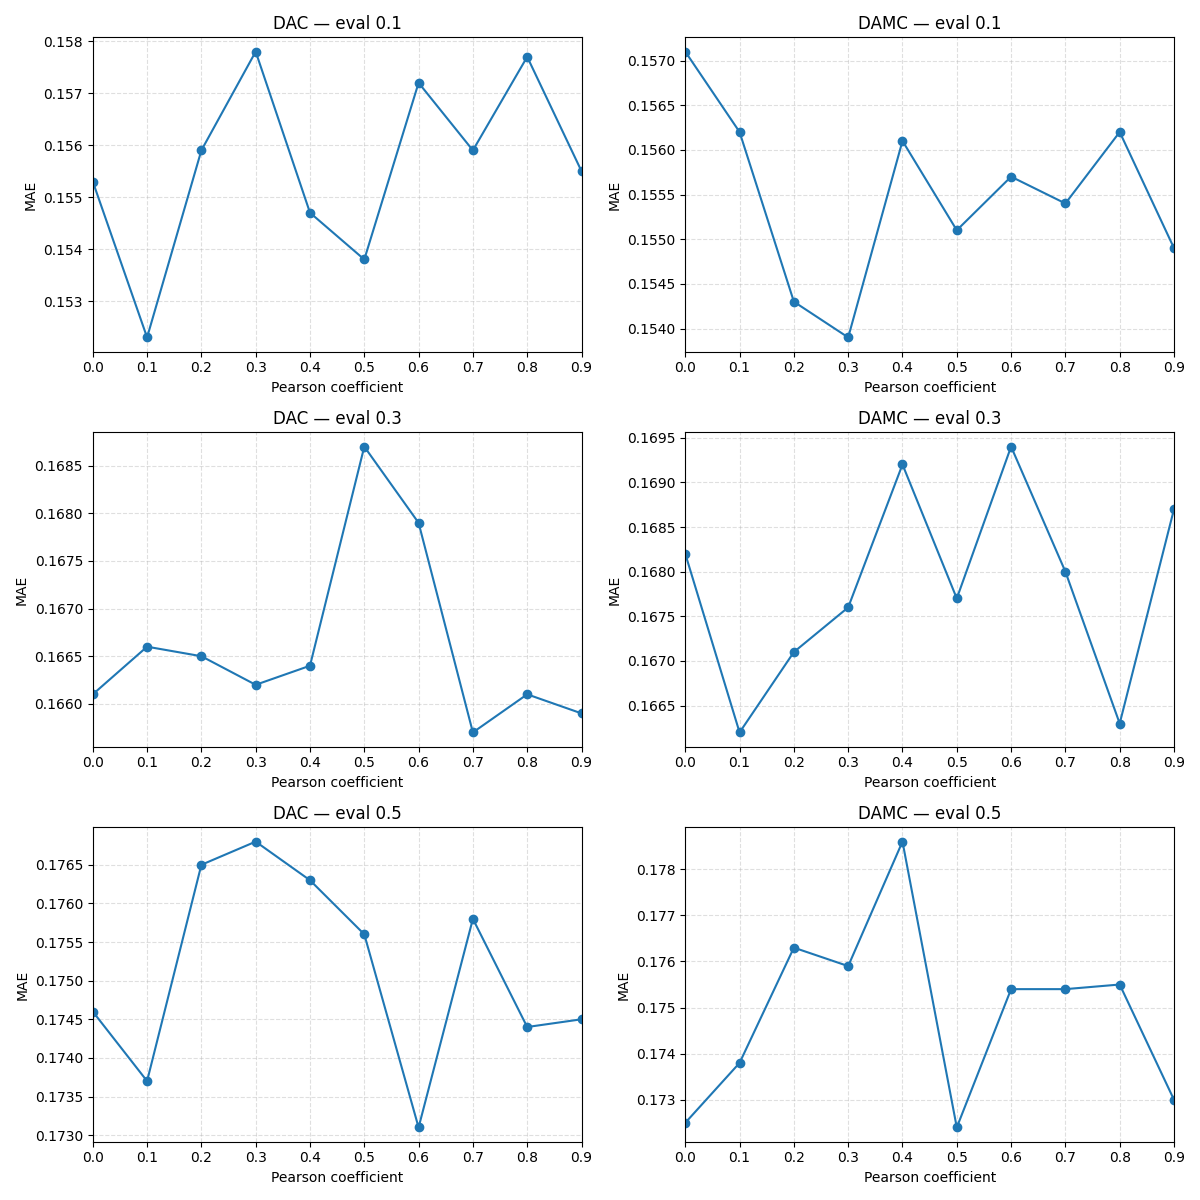
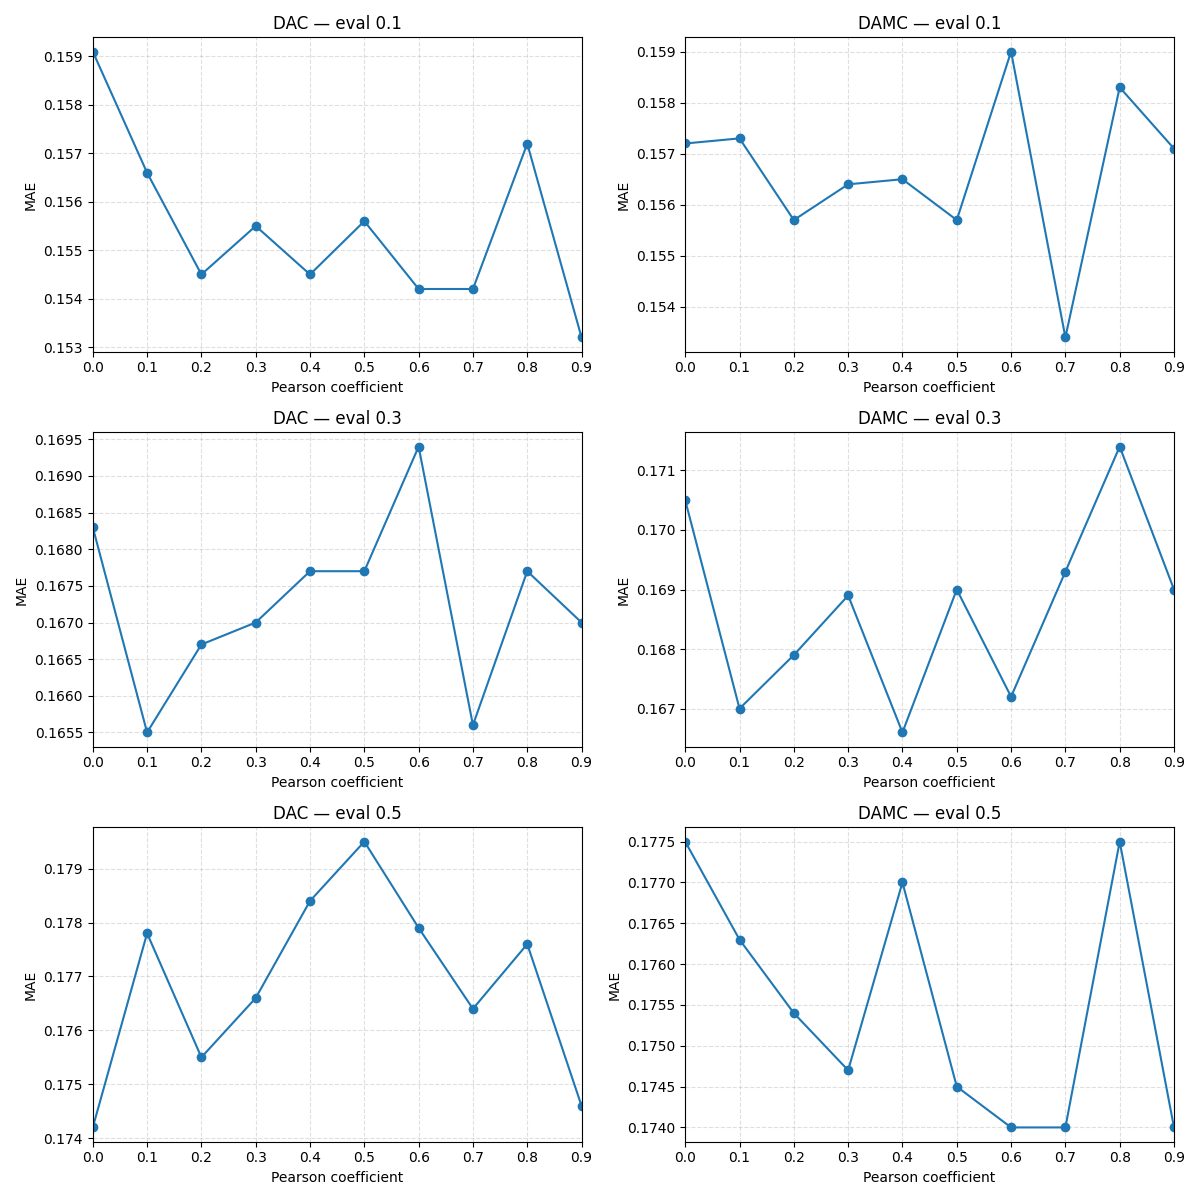
Add new evaluation results and update plotting scripts for Airquality and ICU experiments

diff --git a/snapshot/plot_airquality_comparison.py b/snapshot/plot_airquality_comparison.py
@@ -68,21 +68,37 @@ def read_mae_from_csv(path):
 def gather_results(directory):
     files = [os.path.join(directory, f) for f in os.listdir(directory) if f.lower().endswith('.csv')]
     results = defaultdict(list)  # key: (method, eval) -> list of (pearson, mae)
+    records = []
     for f in files:
         method, eval_v, pearson = extract_info_from_filename(f)
         if method not in ('DAC', 'DAMC'):
             continue
         if eval_v is None:
             continue
-        # some files may omit pearson in name; skip if unknown
         if pearson is None:
             continue
-        mae = read_mae_from_csv(f)
-        if mae is None:
+        try:
+            df = pd.read_csv(f)
+        except Exception:
             continue
-        key = (method, eval_v)
-        results[key].append((pearson, mae))
-    return results
+        if df.shape[0] == 0:
+            continue
+        rec = df.iloc[0].to_dict()
+        rec.update({'__filename': os.path.basename(f), 'method': method, 'eval': eval_v, 'pearson': pearson})
+        records.append(rec)
+        mae = None
+        for col in ("opt_mae", "mae", "opt_MAE", "MAE"):
+            if col in rec:
+                try:
+                    mae = float(rec[col])
+                except Exception:
+                    mae = None
+                break
+        if mae is not None:
+            key = (method, eval_v)
+            results[key].append((pearson, mae))
+
+    return results, pd.DataFrame(records) if records else pd.DataFrame()
 
 
 def plot_results(results, out_path=None):
@@ -122,16 +138,22 @@ def plot_results(results, out_path=None):
 
 def main():
     parser = argparse.ArgumentParser()
-    parser.add_argument('--dir', default='exp_results/Airquality', help='Directory with Airquality CSV results')
+    parser.add_argument('--dir', default='exp_results/Airquality2', help='Directory with Airquality CSV results')
     parser.add_argument('--out', default='plots/airquality_comparison.png', help='Output path for combined figure')
+    parser.add_argument('--aggregate', default='plots/airquality_aggregated.csv', help='Path to save aggregated CSV of results')
     args = parser.parse_args()
-
     if not os.path.isdir(args.dir):
         raise SystemExit(f"Directory not found: {args.dir}")
 
-    results = gather_results(args.dir)
-    if not results:
+    results, agg_df = gather_results(args.dir)
+    if agg_df is None or agg_df.empty:
         raise SystemExit("No matching results found in directory. Check filenames and location.")
+
+    # save aggregated CSV
+    os.makedirs(os.path.dirname(args.aggregate), exist_ok=True)
+    agg_df.to_csv(args.aggregate, index=False)
+    print(f"Saved aggregated CSV to {args.aggregate} ({len(agg_df)} rows)")
+
     plot_results(results, args.out)
 
 

diff --git a/snapshot/plot_icu_comparison.py b/snapshot/plot_icu_comparison.py
@@ -60,22 +60,47 @@ def read_mae_from_csv(path):
     return None
 
 
-def gather_results(directory):
+def gather_results(directory, aggregate_out=None):
     if not os.path.isdir(directory):
         raise FileNotFoundError(directory)
     files = [os.path.join(directory, f) for f in os.listdir(directory) if f.lower().endswith('.csv')]
     results = defaultdict(list)
+    records = []
     for f in files:
         method, eval_v, pearson = extract_info_from_filename(f)
         if method not in ('DAC', 'DAMC'):
             continue
         if eval_v is None or pearson is None:
             continue
-        mae = read_mae_from_csv(f)
-        if mae is None:
+        try:
+            df = pd.read_csv(f)
+        except Exception:
             continue
-        results[(method, eval_v)].append((pearson, mae))
-    return results
+        if df.shape[0] == 0:
+            continue
+        rec = df.iloc[0].to_dict()
+        rec.update({'__filename': os.path.basename(f), 'method': method, 'eval': eval_v, 'pearson': pearson})
+        records.append(rec)
+        mae = None
+        for col in ("opt_mae", "mae", "opt_MAE", "MAE"):
+            if col in rec:
+                try:
+                    mae = float(rec[col])
+                except Exception:
+                    mae = None
+                break
+        if mae is not None:
+            results[(method, eval_v)].append((pearson, mae))
+
+    if aggregate_out and records:
+        agg_df = pd.DataFrame(records)
+        os.makedirs(os.path.dirname(aggregate_out), exist_ok=True)
+        agg_df.to_csv(aggregate_out, index=False)
+        print(f"Saved aggregated CSV to {aggregate_out}")
+    else:
+        agg_df = pd.DataFrame(records) if records else pd.DataFrame()
+
+    return results, agg_df
 
 
 def plot_results(results, out_path=None):
@@ -110,12 +135,14 @@ def main():
     parser = argparse.ArgumentParser()
     parser.add_argument('--dir', default='exp_results/ICU', help='Directory with ICU CSV results')
     parser.add_argument('--out', default='plots/icu_comparison.png', help='Output path for combined figure')
+    parser.add_argument('--aggregate', default='plots/icu_aggregated.csv', help='Path to save aggregated CSV of results')
     args = parser.parse_args()
-
-    results = gather_results(args.dir)
+    results, agg_df = gather_results(args.dir, aggregate_out=args.aggregate)
     if not results:
         raise SystemExit('No matching results found in directory. Check filenames and location.')
     plot_results(results, args.out)
+    if not agg_df.empty:
+        print(f"Aggregated {len(agg_df)} result rows into {args.aggregate}")
 
 
 if __name__ == '__main__':